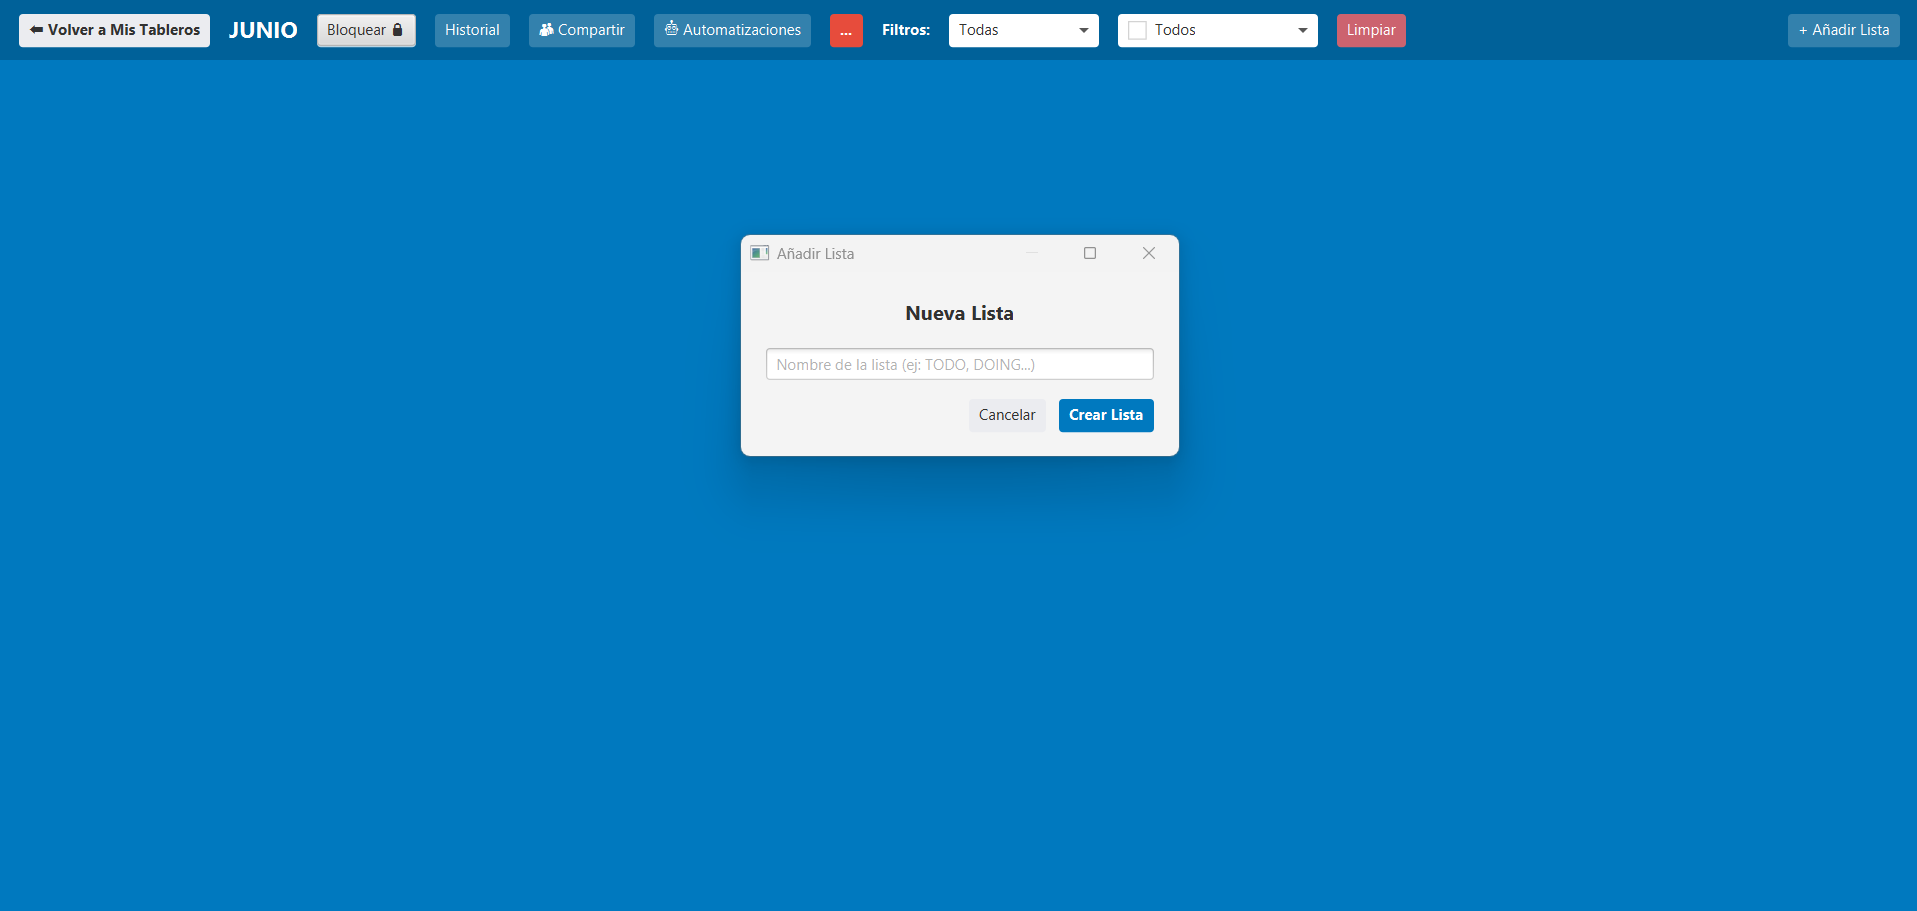
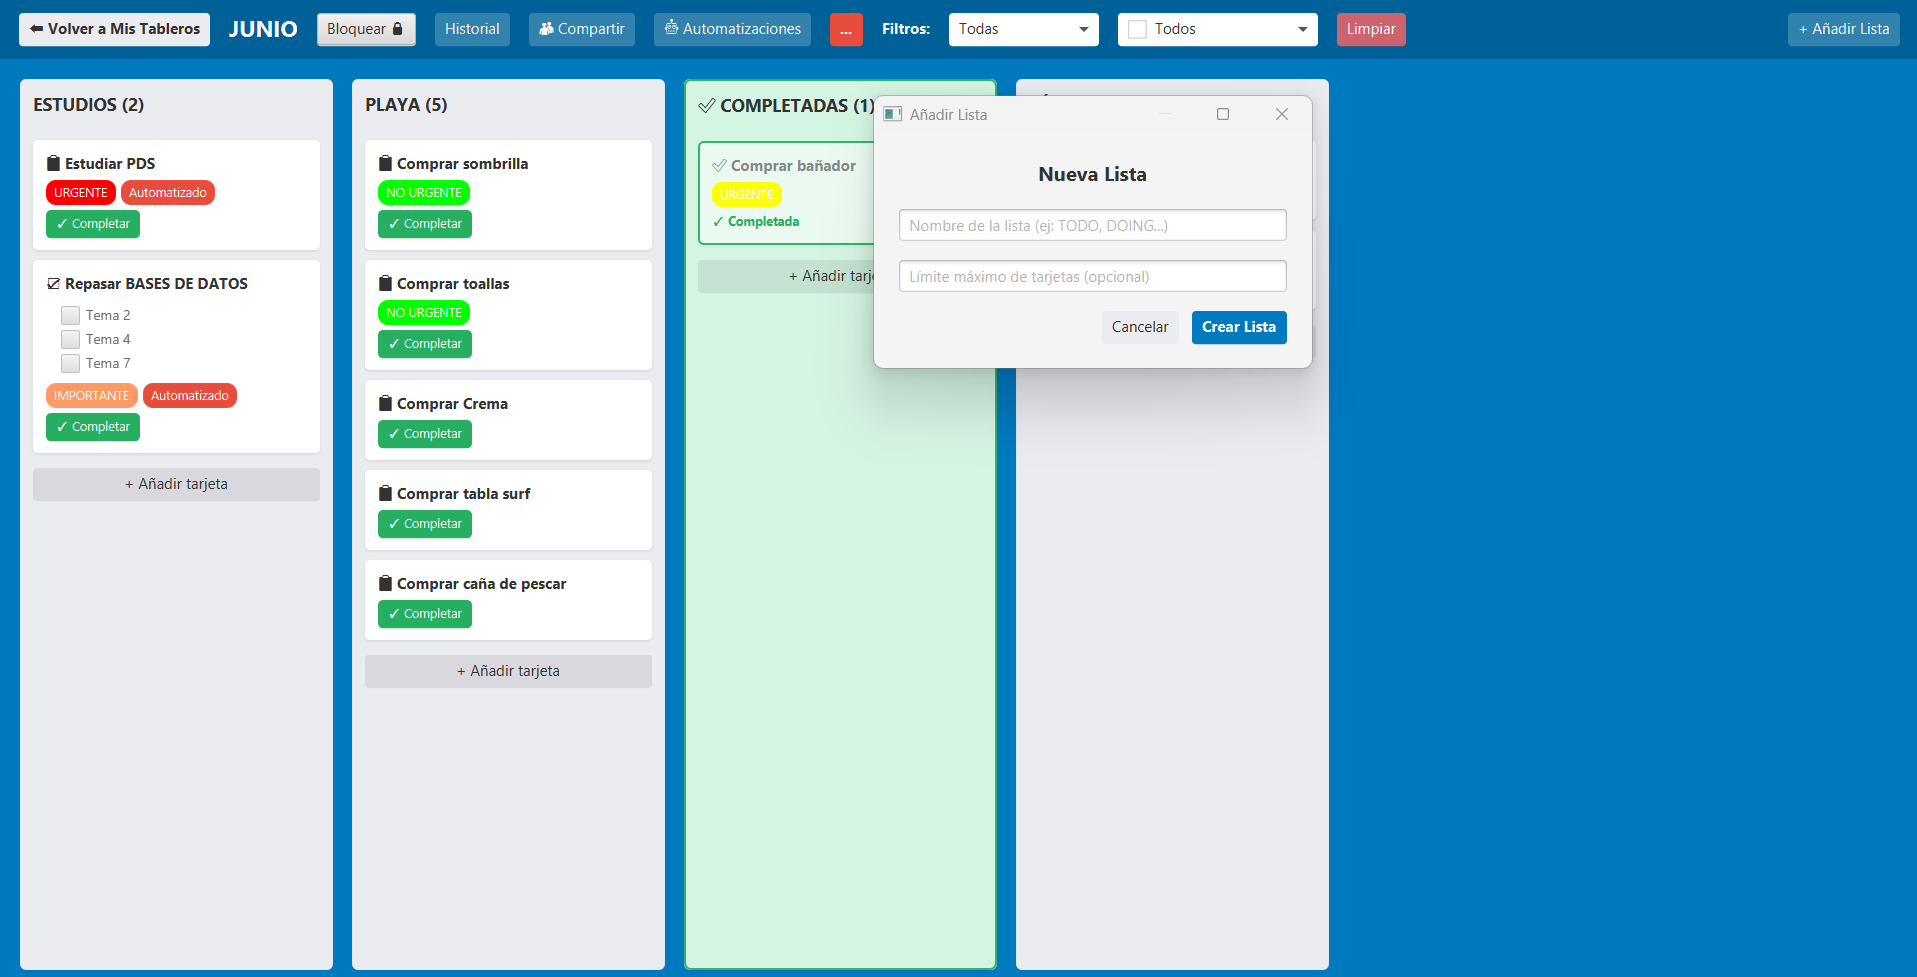
Implemento la funcionalidad para que se pueda añadir un límite de tarjetas al crear una lista de tareas

diff --git a/infrastructure/src/main/java/es/um/pds/tableros/infrastructure/javafx/controllers/AnadirListaController.java b/infrastructure/src/main/java/es/um/pds/tableros/infrastructure/javafx/controllers/AnadirListaController.java
@@ -24,6 +24,9 @@ public class AnadirListaController {
 
     /** Campo de texto FXML para introducir el nombre de la nueva columna. */
     @FXML private TextField txtNombreLista;
+    
+    /** Campo de texto FXML opcional para definir el límite WIP máximo de tarjetas de la columna. */
+    @FXML private TextField txtLimiteTarjetas;
 
     private String boardId;
 
@@ -50,12 +53,14 @@ public class AnadirListaController {
 
     /**
      * @brief Maneja la acción FXML de pulsación del botón Crear.
-     * Extrae y valida el texto del campo, construye el comando AnadirListCommand adjuntando 
-     * el email en sesión y delega en la capa de aplicación cerrando la ventana en caso de éxito.
+     * Extrae y valida el texto del campo, parsea el límite WIP si está presente, construye 
+     * el comando AnadirListCommand adjuntando el email en sesión y delega en la capa de aplicación 
+     * cerrando la ventana en caso de éxito.
      */
     @FXML
     public void handleCrear() {
         String nombre = txtNombreLista.getText().trim();
+        String limiteStr = txtLimiteTarjetas != null ? txtLimiteTarjetas.getText().trim() : "";
 
         if (nombre.isBlank()) {
             Alert alert = new Alert(Alert.AlertType.WARNING);
@@ -66,9 +71,24 @@ public class AnadirListaController {
             return;
         }
 
+        Integer limiteWip = null;
+        if (!limiteStr.isBlank()) {
+            try {
+                limiteWip = Integer.parseInt(limiteStr);
+                if (limiteWip <= 0) throw new NumberFormatException();
+            } catch (NumberFormatException e) {
+                Alert alert = new Alert(Alert.AlertType.WARNING);
+                alert.setTitle("Formato inválido");
+                alert.setHeaderText(null);
+                alert.setContentText("El límite de tarjetas debe ser un número entero mayor que 0.");
+                alert.showAndWait();
+                return;
+            }
+        }
+
         try {
-            String emailUsuario = sceneManager.getCurrentUserEmail(); // AÑADIDO
-            AnadirListCommand cmd = new AnadirListCommand(boardId, nombre, null, emailUsuario); // AÑADIDO el 4º parámetro
+            String emailUsuario = sceneManager.getCurrentUserEmail(); 
+            AnadirListCommand cmd = new AnadirListCommand(boardId, nombre, limiteWip, emailUsuario); 
             boardService.anadirListaATablero(cmd);
             cerrarVentana();
         } catch (Exception e) {
